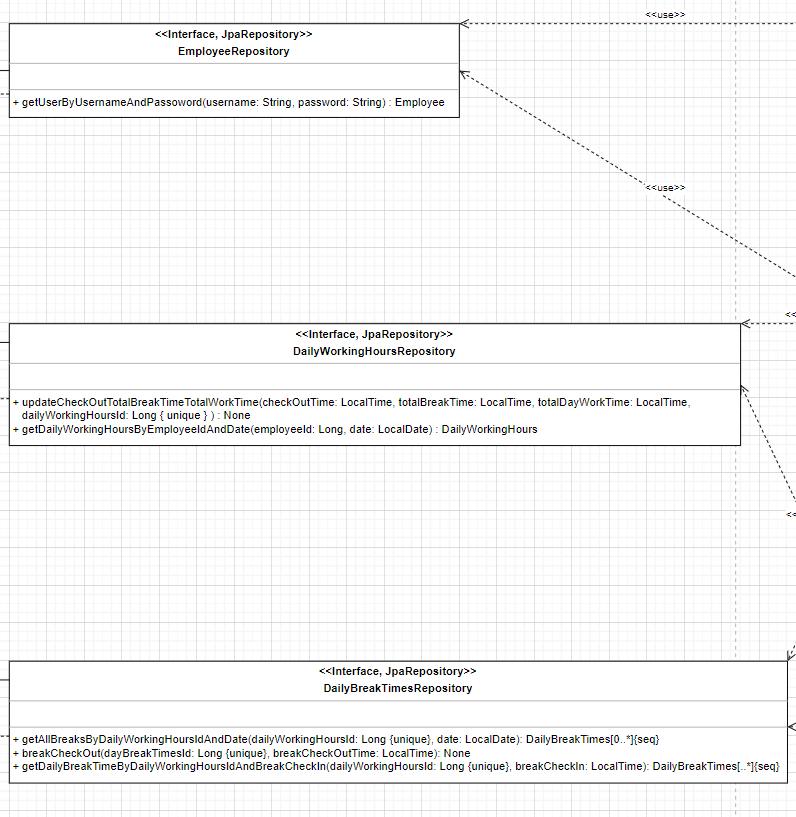
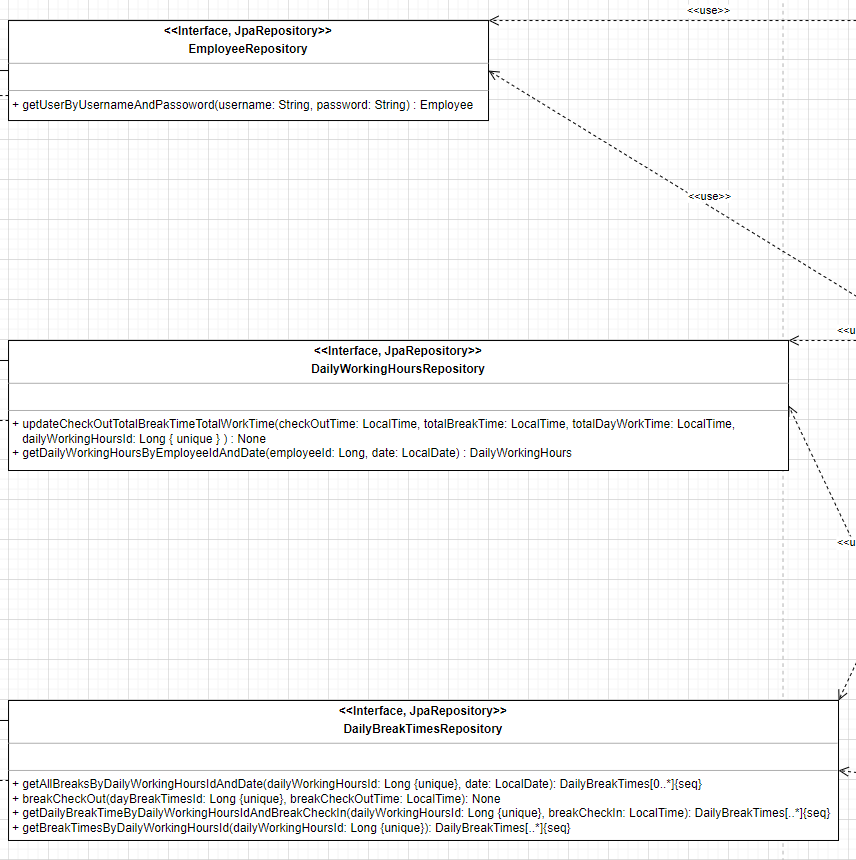
Added documentation for the new rest-endpoint ( api/dailybreaktimes/getBreakTimesByDailyWorkingHoursId )

diff --git a/README.md b/README.md
@@ -125,6 +125,11 @@ Wir haben Rest-Endpoints für jede Tabelle erstellt:
     * ```api/dailybreaktimes/breakCheckOut(dayBreakTimeId, dailyWorkingsHoursId, breakCheckOutTime)```
         * ```true``` zurückgeben, wenn es funktioniert hat
         * ```false``` zurückgeben, wenn es nicht funktioniert hat
+    * ```api/dailybreaktimes/getBreakTimesByDailyWorkingHoursId(dailyWorkingHoursId)```
+        * Eine Liste von ```DailyBreakTimes``` wird zurückgegeben, wenn Pausenzeiten gefunden werden und ```dailyWorkingHoursId``` richtig ist.
+        * Eine leere Liste wenn keine Pausenzeiten gefunden wurden oder wenn ```dailyWorkingHoursId``` falsch ist.
+
+
 
 Das Datum eines Rest-Endpunktes wird immer als normale Zeichenkette angenommen.
 Beispiel:
@@ -172,6 +177,8 @@ Jedes Repository hat die Stereotypen ```Interface``` und ```JpaRepository```. Je
         * Diese Methode setzt den CheckOutTime (```breakCheckOutTime```) für ein bestimmtest DayBreakTime (```dayBreakTimesId```)
     * ```+ getDailyBreakTimeByDailyWorkingHoursIdAndBreakCheckIn(dailyWorkingHoursId: Long {unique}, breakCheckIn: LocalTime): DailyBreakTimes[..*]{seq}```
         * Diese Methode liefert eine Liste von ```DailyBreakTime``` Entitäten anhand der angegebenen ```dailyWorkingsHoursId``` und ```breakCheckIn```
+    * ```+ getBreakTimesByDailyWorkingHoursId(dailyWorkingHoursId: Long {unique}): DailyBreakTimes[..*]{seq}```
+        * Diese Methode liefert eine Liste von ```DailyBreakTime``` Entitäten anhand der angegebenen ```dailyWorkingsHoursId```.
 
 
 ## 4.4 Services
@@ -198,6 +205,13 @@ Der ```EmployeeService``` hat eine Kompositionsbeziehung mit dem ```HashingStati
         * Diese Methode wird verwendet, wenn ein Mitarbeiter mit seinem Tag fertig ist. Die Methode setzt die ```checkOutTime``` für die gegebene ```dailyWorkingHoursId``` und darüber hinaus auch automatisch die Gesamtarbeitszeit ( ```totalDayWorkTime``` ) und die Gesamtpausenzeit ( ```totalDayBreakTime``` )
     * ``` + getDailyWorkingHoursByEmployeeIdAndDate(employeeId: Long { unique }, searchDate: LocalDate): DailyWorkingHours```
         * Diese Methode gibt eine DailyWorkingHours-Entität mit der angegebenen ```employeeId``` und dem angegebenen Datum ( ```searchDate``` ) zurück
+* ```DailyBreakTimes```
+    * ```+ breakCheckIn(dailyWorkingHoursId: Long { unique }, breakCheckInTimeLocalTime: LocalTime): boolean```
+        * gibt ```true``` zurück, wenn die angegebenen Werte richtig sind und wir das ```checkIn``` machen können und false wenn die Werte falsch sind
+    * ```+ breakCheckOut(dayBreakTimesId: Long { unique }, breakCheckOutTime: LocalTime): boolean```
+        * Diese Methode aktualisiert die Checkout-Zeit ( ```breakCheckOutTime``` ) für eine bestimmte Pause ( ```dayBreakTimesId``` )
+    * ```+ getBreakTimesByDailyWorkingHoursId(dailyWorkingHoursId: Long {unique}): DailyBreakTimes[..*]{seq}```
+        * Diese Methode liefert eine Liste von ```DailyBreakTime``` Entitäten anhand der angegebenen ```dailyWorkingsHoursId```.
 
 ## 4.5 Controllers
 
